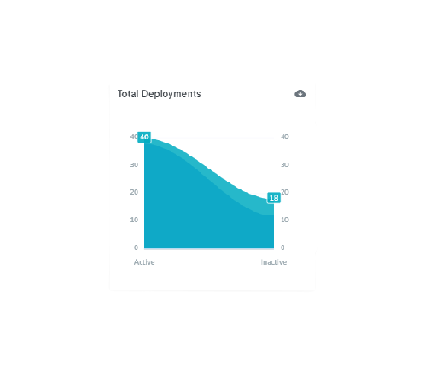
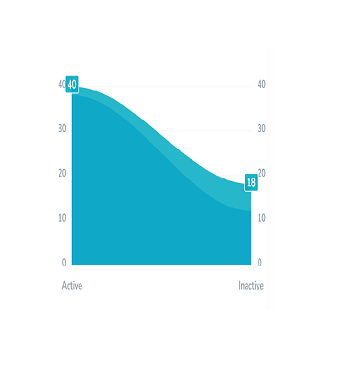
changes

diff --git a/src/app/landing-page5/components/revolution-slider5/revolution-slider5.component.html b/src/app/landing-page5/components/revolution-slider5/revolution-slider5.component.html
@@ -124,7 +124,7 @@
                     </rs-layer>
                     <!--
                         -->
-                    <rs-layer
+                    <!-- <rs-layer
                         id="slider-3-slide-3-layer-16" 
                         class="rs-pxl-1"
                         data-type="image"
@@ -139,10 +139,10 @@
                         data-loop_999="y:10;sp:6000;e:Sine.easeInOut;yym:t;"
                         style="z-index:11;font-family:Roboto;"
                         ><img src="./assets/revslider/assets/dummy.png" data-lazyload="./assets/revslider/assets_slider5/demo5-rev-03.png" data-no-retina> 
-                    </rs-layer>
+                    </rs-layer> -->
                     <!--
                         -->
-                    <rs-layer
+                    <!-- <rs-layer
                         id="slider-3-slide-3-layer-17" 
                         class="rs-pxl-1"
                         data-type="image"
@@ -157,10 +157,10 @@
                         data-loop_999="x:10px;sp:3000;e:Sine.easeInOut;yym:t;"
                         style="z-index:12;font-family:Roboto;"
                         ><img src="./assets/revslider/assets/dummy.png" width="521" height="433" data-lazyload="./assets/revslider/assets_slider5/demo5-rev-04-1.png" data-no-retina> 
-                    </rs-layer>
+                    </rs-layer> -->
                     <!--
                         -->
-                    <rs-layer
+                    <!-- <rs-layer
                         id="slider-3-slide-3-layer-18" 
                         class="rs-pxl-2"
                         data-type="image"
@@ -176,7 +176,7 @@
                         data-loop_999="x:10px;sp:3000;e:Sine.easeInOut;yym:t;"
                         style="z-index:13;font-family:Roboto;"
                         ><img src="./assets/revslider/assets/dummy.png" data-lazyload="./assets/revslider/assets_slider5/demo5-rev-05.png" data-no-retina> 
-                    </rs-layer>
+                    </rs-layer> -->
                     <!--
                         -->						
                 </rs-slide>
